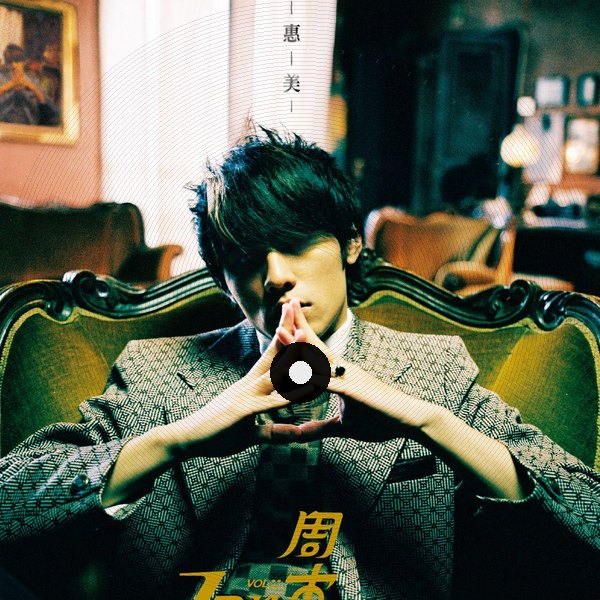
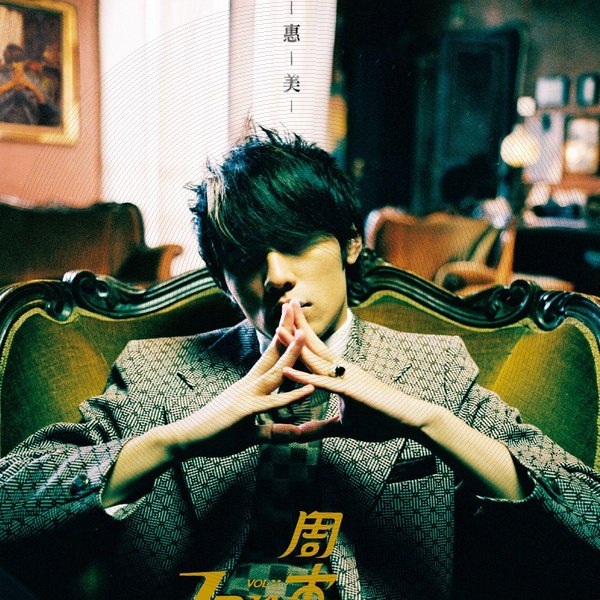
feat: 封面去中心孔 + 音频源超时保护(4s换源) + 源按实测稳定性排序, 版本 20261115-5

Changed region(s): [[0.45, 0.57, 0.57, 0.69], [0.48, 0.48, 0.51, 0.51]]

diff --git a/index.html b/index.html
@@ -131,6 +131,7 @@ var directSrc = qs.get("src") || "";
 var candidates = [], candIdx = 0, trackName = "", trackArtist = "";
 var playing = false, actx = null, gainNode = null;
 var scrubbing = false, scrubTime = 0;
+var loadTimer = null;
 var playlist = [];
 
 var ICON_PLAY = "M8 5v14l11-7z";
@@ -330,9 +331,6 @@ bar.addEventListener("click", function (e) {
   curEl.textContent = fmt(au.currentTime);
   if (au.duration && isFinite(au.duration)) paint(au.currentTime / au.duration);
 });
-au.addEventListener("loadedmetadata", function () {
-  durEl.textContent = fmt(au.duration);
-});
 au.addEventListener("play", function () { setPlaying(true); clearHint(); });
 au.addEventListener("pause", function () { setPlaying(false); });
 au.addEventListener("ended", function () {
@@ -341,7 +339,34 @@ au.addEventListener("ended", function () {
   curEl.textContent = "0:00";
   if (playlist.length) step(1);
 });
+
+function tryNext() {
+  if (candIdx >= candidates.length) {
+    showErr("所有音频源都不可用，请检查网络后重试。");
+    setPlaying(false);
+    return;
+  }
+  var url = candidates[candIdx++];
+  au.src = url;
+  // 超时保护: 某个源卡住(网络抖动/CDN 超时)时, 4 秒内没起效就换下一个,
+  // 避免整个播放器干等十几秒。
+  var myIdx = candIdx;
+  if (loadTimer) { clearTimeout(loadTimer); }
+  loadTimer = setTimeout(function () {
+    if (myIdx === candIdx && au.readyState < 2) {
+      tryNext();
+    }
+  }, 4000);
+  try {
+    au.load();
+  } catch (e) {
+    tryNext();
+  }
+}
+
+// 加载失败: 清掉超时定时器并换下一个源
 au.addEventListener("error", function () {
+  if (loadTimer) { clearTimeout(loadTimer); loadTimer = null; }
   if (au.error && au.error.code === au.error.MEDIA_ERR_ABORTED) return;
   if (au.error && (au.error.code === au.error.MEDIA_ERR_DECODE ||
                      au.error.code === au.error.MEDIA_ERR_SRC_NOT_SUPPORTED ||
@@ -351,14 +376,11 @@ au.addEventListener("error", function () {
   }
 });
 
-function tryNext() {
-  if (candIdx >= candidates.length) {
-    showErr("所有音频源都不可用，请检查网络。");
-    return;
-  }
-  au.src = candidates[candIdx++];
-  au.load();
-}
+// 成功加载后清掉超时定时器
+au.addEventListener("loadedmetadata", function () {
+  if (loadTimer) { clearTimeout(loadTimer); loadTimer = null; }
+  durEl.textContent = fmt(au.duration);
+});
 
 function loadTrack(track) {
   shortId = track.id;
@@ -427,7 +449,7 @@ function autoplay() {
 fetch("version.txt?t=" + Date.now(), { cache: "no-store" })
   .then(function (r) { return r.ok ? r.text() : null; })
   .then(function (t) {
-    if (t && t.trim() && t.trim() !== "20261115-4") {
+    if (t && t.trim() && t.trim() !== "20261115-5") {
       hint.innerHTML = "检测到新版本 (" + t.trim() + ")，当前是旧缓存。<br>请下拉刷新。";
     }
   })

diff --git a/site/index.html b/site/index.html
@@ -131,6 +131,7 @@ var directSrc = qs.get("src") || "";
 var candidates = [], candIdx = 0, trackName = "", trackArtist = "";
 var playing = false, actx = null, gainNode = null;
 var scrubbing = false, scrubTime = 0;
+var loadTimer = null;
 var playlist = [];
 
 var ICON_PLAY = "M8 5v14l11-7z";
@@ -330,9 +331,6 @@ bar.addEventListener("click", function (e) {
   curEl.textContent = fmt(au.currentTime);
   if (au.duration && isFinite(au.duration)) paint(au.currentTime / au.duration);
 });
-au.addEventListener("loadedmetadata", function () {
-  durEl.textContent = fmt(au.duration);
-});
 au.addEventListener("play", function () { setPlaying(true); clearHint(); });
 au.addEventListener("pause", function () { setPlaying(false); });
 au.addEventListener("ended", function () {
@@ -341,7 +339,34 @@ au.addEventListener("ended", function () {
   curEl.textContent = "0:00";
   if (playlist.length) step(1);
 });
+
+function tryNext() {
+  if (candIdx >= candidates.length) {
+    showErr("所有音频源都不可用，请检查网络后重试。");
+    setPlaying(false);
+    return;
+  }
+  var url = candidates[candIdx++];
+  au.src = url;
+  // 超时保护: 某个源卡住(网络抖动/CDN 超时)时, 4 秒内没起效就换下一个,
+  // 避免整个播放器干等十几秒。
+  var myIdx = candIdx;
+  if (loadTimer) { clearTimeout(loadTimer); }
+  loadTimer = setTimeout(function () {
+    if (myIdx === candIdx && au.readyState < 2) {
+      tryNext();
+    }
+  }, 4000);
+  try {
+    au.load();
+  } catch (e) {
+    tryNext();
+  }
+}
+
+// 加载失败: 清掉超时定时器并换下一个源
 au.addEventListener("error", function () {
+  if (loadTimer) { clearTimeout(loadTimer); loadTimer = null; }
   if (au.error && au.error.code === au.error.MEDIA_ERR_ABORTED) return;
   if (au.error && (au.error.code === au.error.MEDIA_ERR_DECODE ||
                      au.error.code === au.error.MEDIA_ERR_SRC_NOT_SUPPORTED ||
@@ -351,14 +376,11 @@ au.addEventListener("error", function () {
   }
 });
 
-function tryNext() {
-  if (candIdx >= candidates.length) {
-    showErr("所有音频源都不可用，请检查网络。");
-    return;
-  }
-  au.src = candidates[candIdx++];
-  au.load();
-}
+// 成功加载后清掉超时定时器
+au.addEventListener("loadedmetadata", function () {
+  if (loadTimer) { clearTimeout(loadTimer); loadTimer = null; }
+  durEl.textContent = fmt(au.duration);
+});
 
 function loadTrack(track) {
   shortId = track.id;
@@ -427,7 +449,7 @@ function autoplay() {
 fetch("version.txt?t=" + Date.now(), { cache: "no-store" })
   .then(function (r) { return r.ok ? r.text() : null; })
   .then(function (t) {
-    if (t && t.trim() && t.trim() !== "20261115-4") {
+    if (t && t.trim() && t.trim() !== "20261115-5") {
       hint.innerHTML = "检测到新版本 (" + t.trim() + ")，当前是旧缓存。<br>请下拉刷新。";
     }
   })
